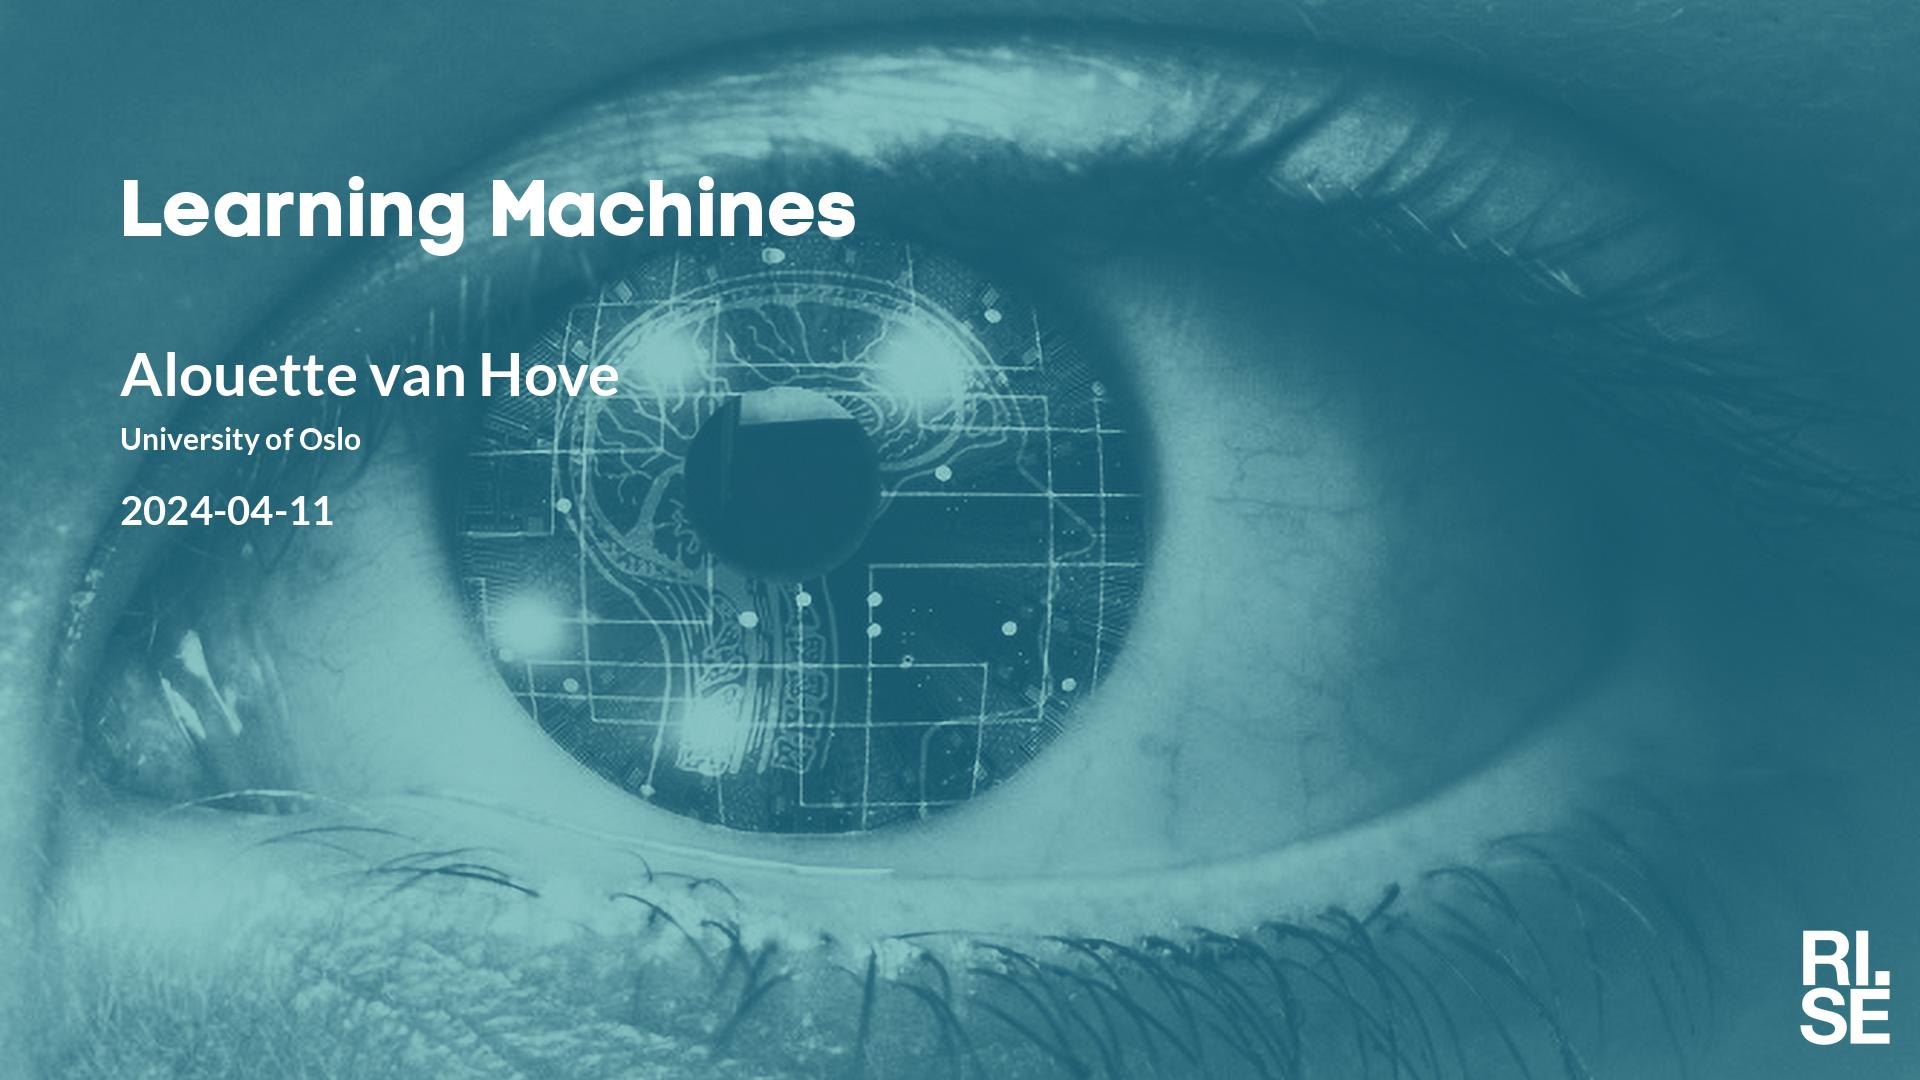
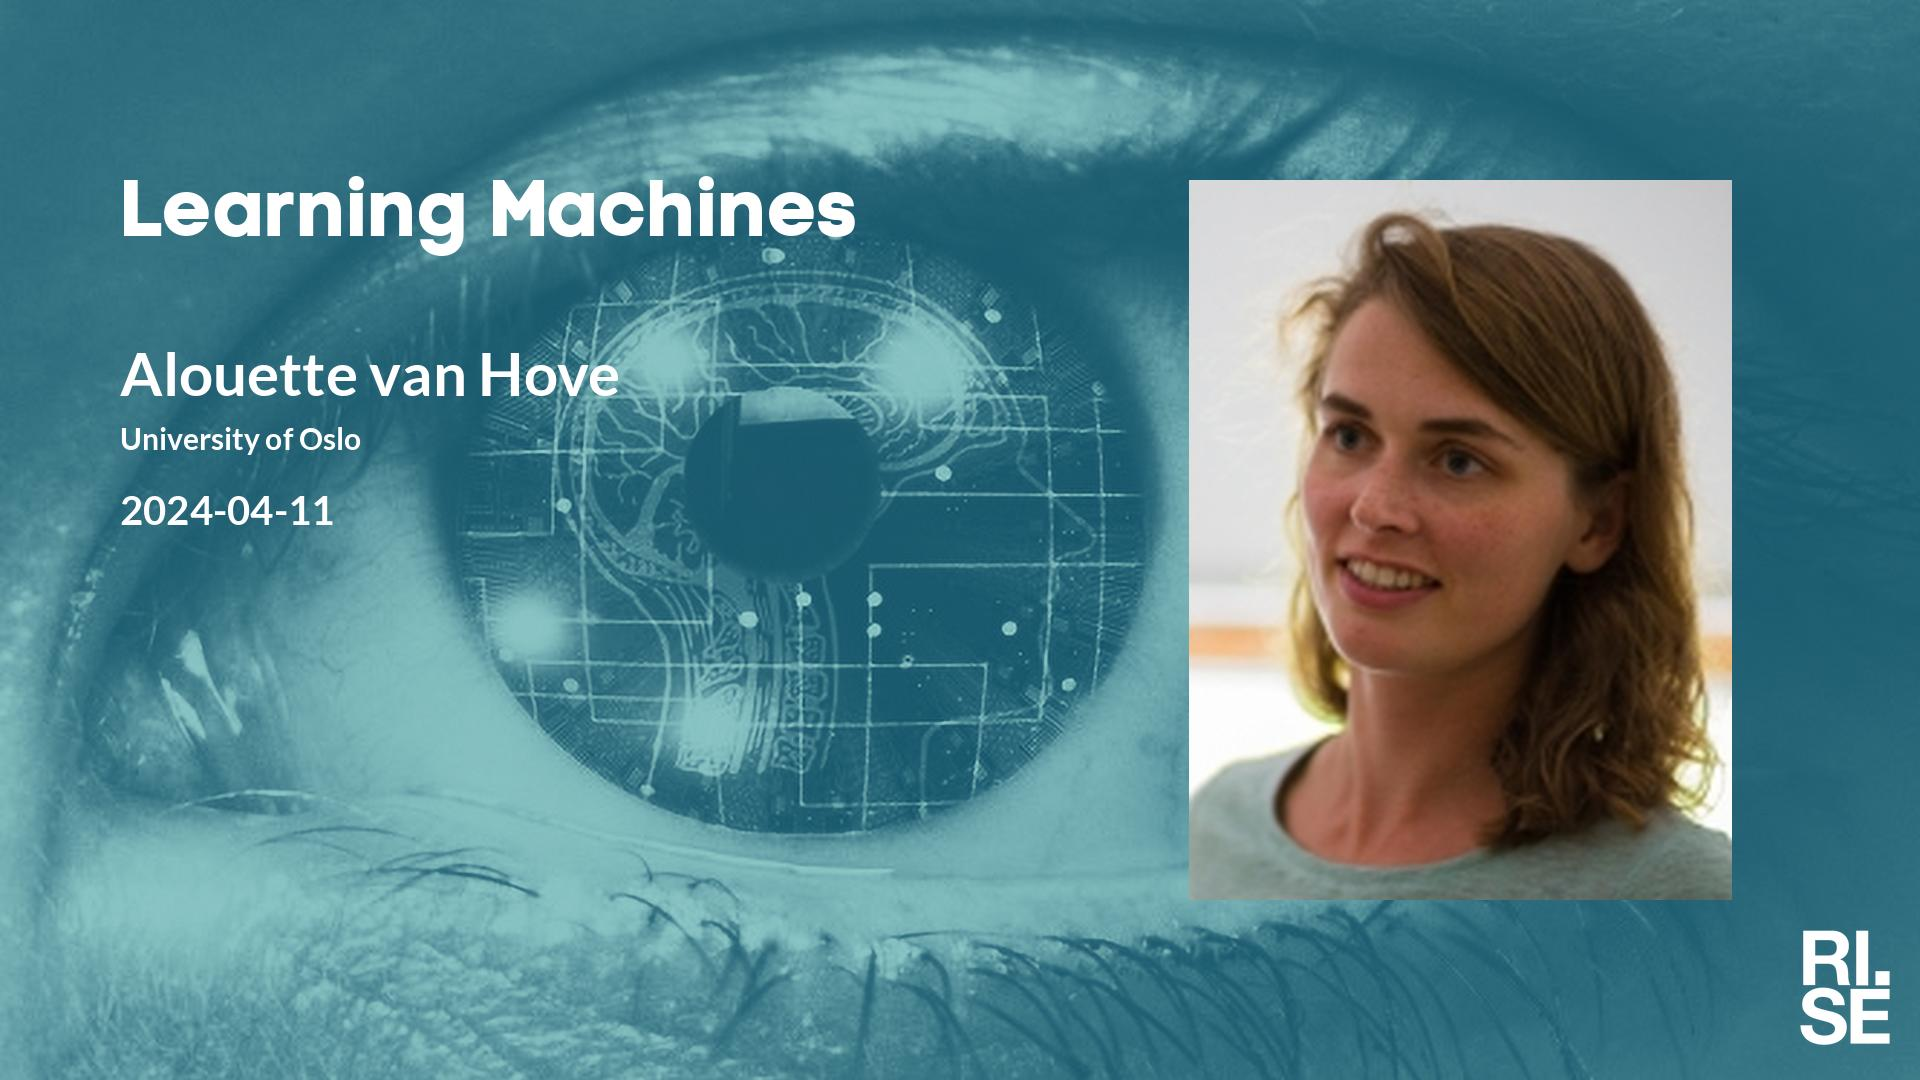
Updated plan on web site.

Changed region(s): [[0.5938, 0.1528, 0.9062, 0.8556]]

diff --git a/lm/index.md b/lm/index.md
@@ -13,7 +13,7 @@ table {border-collapse: collapse;}
 |  2024-03-21  |  [Fredrik Gustafsson, Karolinska Institutet](2024-03-21.md)  |  [photo](photo-fredrik-gustafsson.jpg)  |  [social media ](social-media-fredrik-gustafsson.jpg)  |  [meeting backdrop ](meeting-backdrop-fredrik-gustafsson.jpg)  |  [youtube thumbnail ](youtube-thumbnail-fredrik-gustafsson.jpg)  |  STABP  |
 |  2024-03-28  |  [Yonghao Xu, Linköping University](2024-03-28.md)  |  [photo](photo-yonghao-xu.jpg)  |  [social media ](social-media-yonghao-xu.jpg)  |  [meeting backdrop ](meeting-backdrop-yonghao-xu.jpg)  |  [youtube thumbnail ](youtube-thumbnail-yonghao-xu.jpg)  |  STABP  |
 |  2024-04-04  |  [Karsten Kreis, NVIDIA Research](2024-04-04.md)  |  [photo](photo-karsten-kreis.jpg)  |  [social media ](social-media-karsten-kreis.jpg)  |  [meeting backdrop ](meeting-backdrop-karsten-kreis.jpg)  |  [youtube thumbnail ](youtube-thumbnail-karsten-kreis.jpg)  |  STABP  |
-|  2024-04-11  |  [Alouette van Hove, University of Oslo](2024-04-11.md)  |    |  [social media ](social-media-alouette-van-hove.jpg)  |  [meeting backdrop ](meeting-backdrop-alouette-van-hove.jpg)  |  [youtube thumbnail ](youtube-thumbnail-alouette-van-hove.jpg)  |  S~~TABP~~  |
+|  2024-04-11  |  [Alouette van Hove, University of Oslo](2024-04-11.md)  |  [photo](photo-alouette-van-hove.jpg)  |  [social media ](social-media-alouette-van-hove.jpg)  |  [meeting backdrop ](meeting-backdrop-alouette-van-hove.jpg)  |  [youtube thumbnail ](youtube-thumbnail-alouette-van-hove.jpg)  |  S~~TAB~~P  |
 |  2024-04-18  |  [Tobias Andermann, Uppsala University](2024-04-18.md)  |  [photo](photo-tobias-andermann.png)  |  [social media ](social-media-tobias-andermann.jpg)  |  [meeting backdrop ](meeting-backdrop-tobias-andermann.jpg)  |  [youtube thumbnail ](youtube-thumbnail-tobias-andermann.jpg)  |  STABP  |
 | <span style="color:grey"> 2024-04-25 </span> | <span style="color:grey"> Milena P. ? </span> | <span style="color:grey">  </span> | <span style="color:grey">  </span> | <span style="color:grey">  </span> | <span style="color:grey">  </span> | <span style="color:grey"> S~~TABP~~ </span> |
 | <span style="color:red"> 2024-05-02 </span> | <span style="color:red"> ICLR </span> | <span style="color:red">  </span> | <span style="color:red">  </span> | <span style="color:red">  </span> | <span style="color:red">  </span> | <span style="color:red"> CANCELLED </span> |

diff --git a/lm/2024-04-11.md b/lm/2024-04-11.md
@@ -20,7 +20,8 @@ Welcome to this week's Learning Machines seminar.
 
 **Upcoming seminars:**
 
-* 2024-04-18: *Spatial biodiversity modeling with remote sensing and AI*, Tobias Andermann, Uppsala University
+* 2024-04-18: Tobias Andermann, Uppsala University
+* 2024-09-05: Smita Chakraborty, RISE
 * All seminars are 15:00 CET.
 
 More information and coming seminars: [https://ri.se/lm-sem](https://ri.se/lm-sem)
